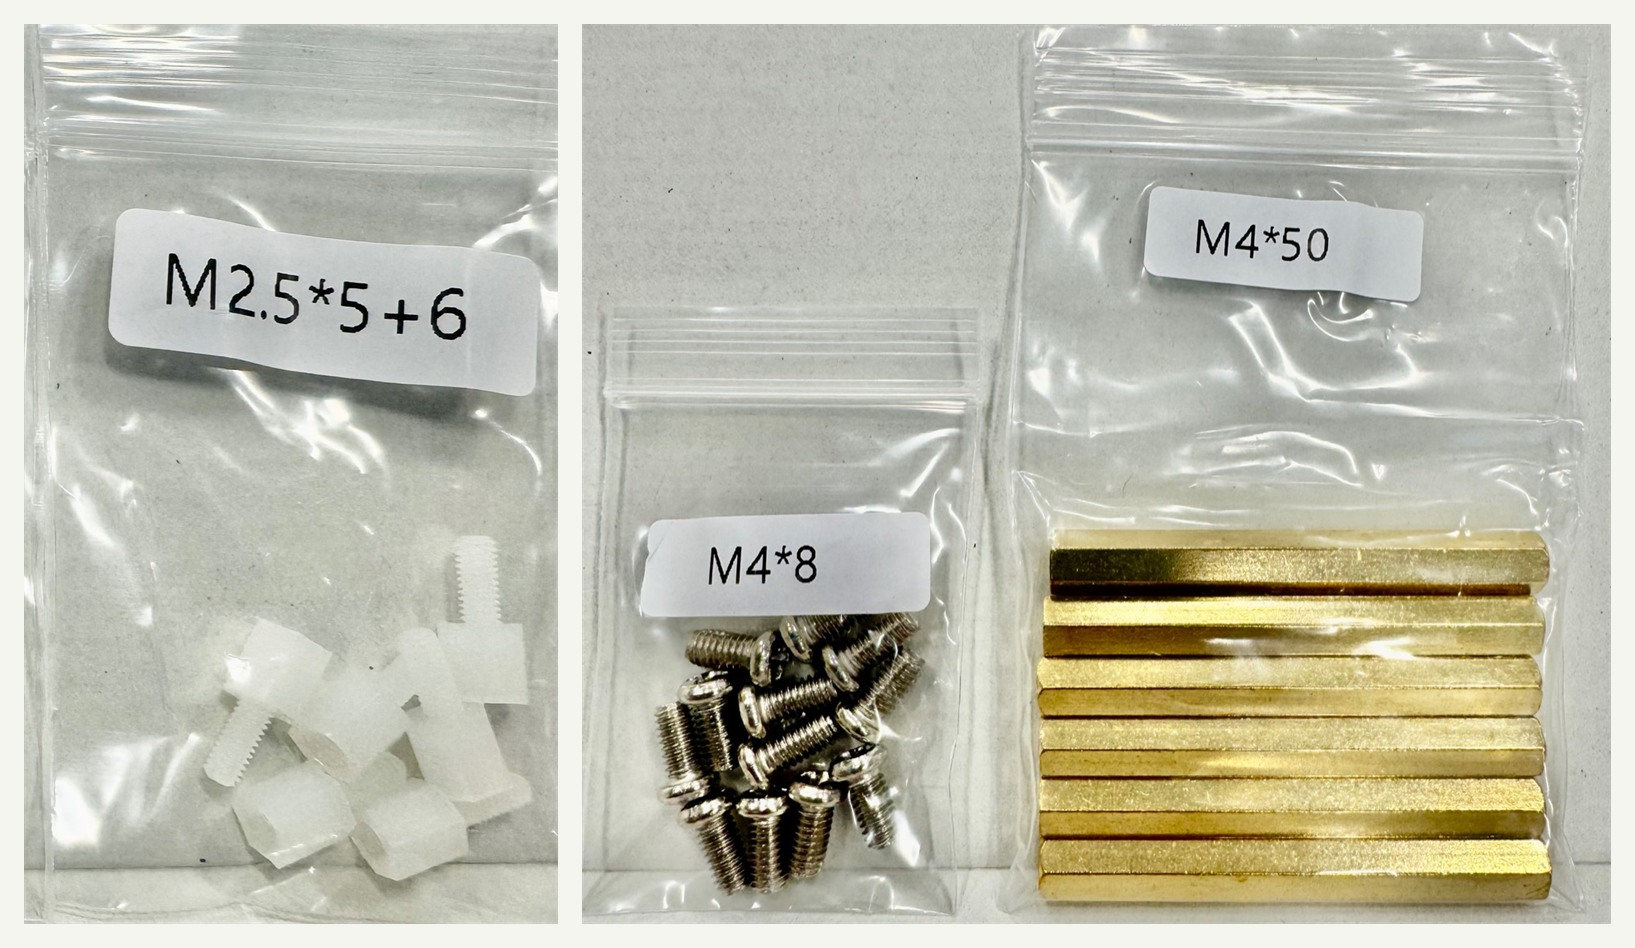
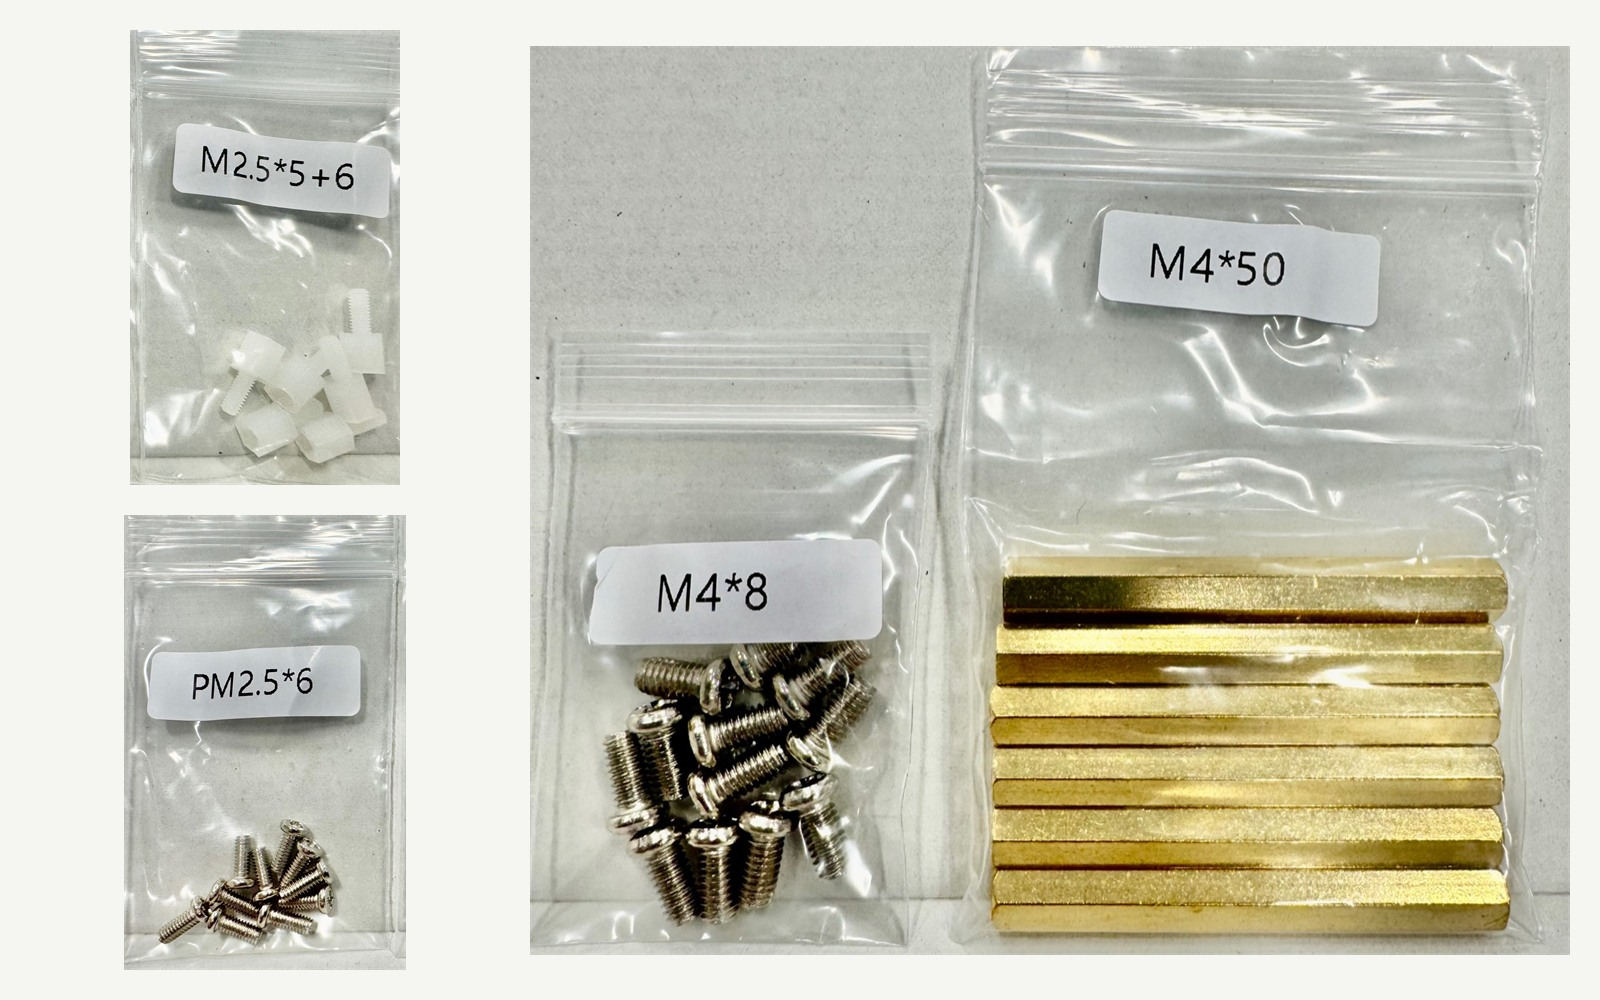
Add PM2.5 hardware to Step 2 image

diff --git a/docs/workshop/ROBOT_ASSEMBLY_GUIDE.md b/docs/workshop/ROBOT_ASSEMBLY_GUIDE.md
@@ -26,12 +26,12 @@ This guide is for the event table. The robot image should already be created bef
 
 ## Step 2: Chassis
 
-<img src="../images/robot/03_standoff_hardware.jpg" width="400" alt="M2.5x5+6 standoffs, M4x50 standoffs, and M4x8 screws">
+<img src="../images/robot/03_standoff_hardware.jpg" width="400" alt="M2.5x5+6 standoffs, PM2.5x6 screws, M4x50 standoffs, and M4x8 screws">
 
 <img src="../images/robot/03_chassis_standoffs.jpg" width="400" alt="chassis standoffs installed">
 
 1. Assemble the lower chassis.
-2. Find the `M2.5*5+6` standoffs, `M4*50` standoffs, and `M4*8` screws.
+2. Find the `M2.5*5+6` standoffs, `PM2.5*6` screws, `M4*50` standoffs, and `M4*8` screws.
 3. Add the standoffs.
 4. Keep access to the battery compartment and power switch.
 
